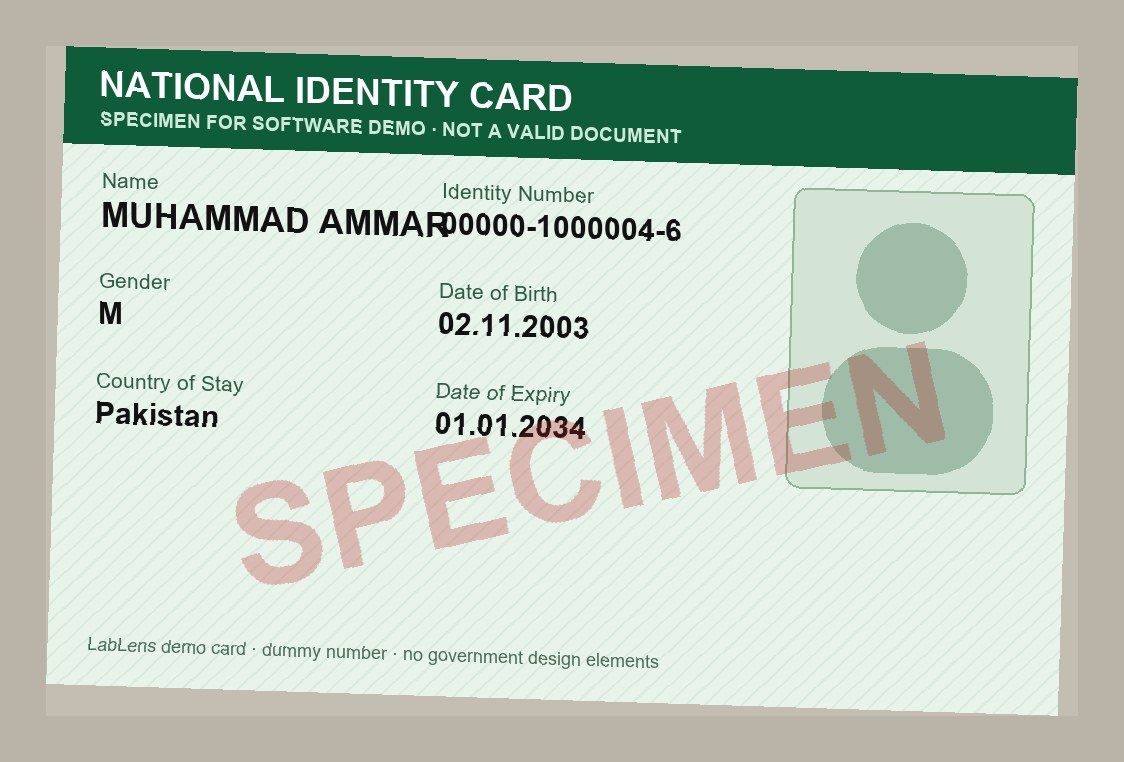
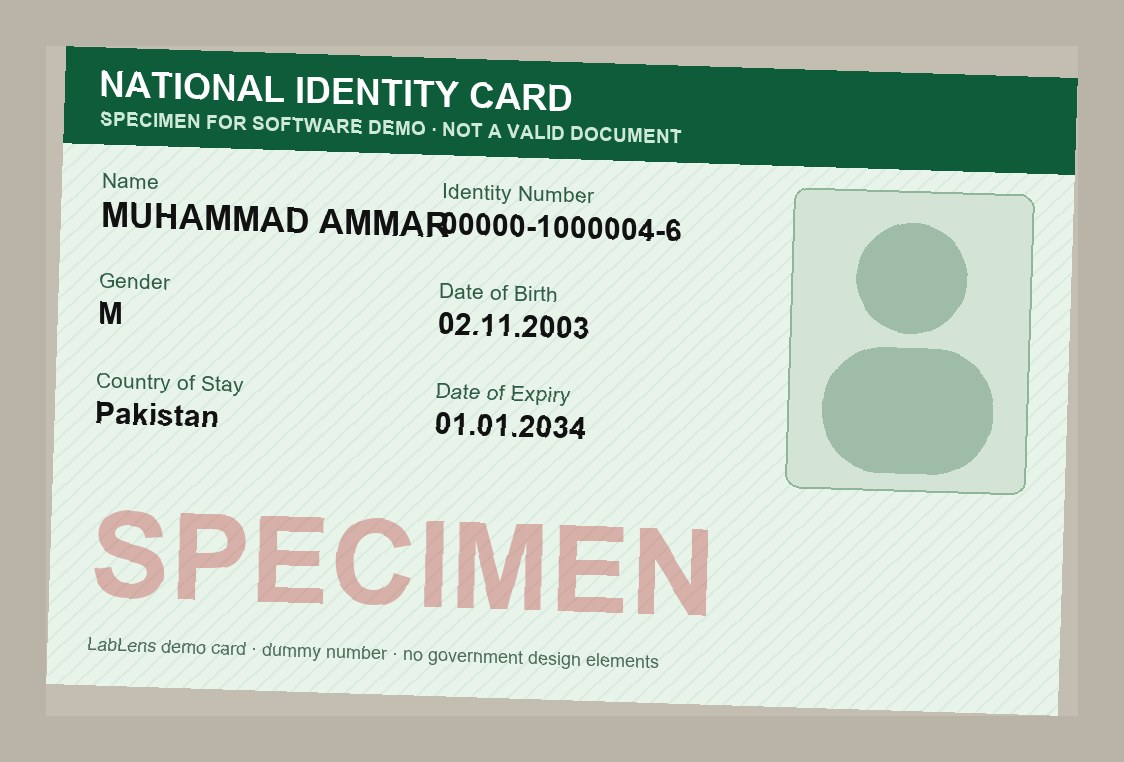
Fixes from the first real Textract runs, plus setup docs
- parser: accept a range whose dash Textract dropped ("13.0 17.0"),
  which left in-range rows of the 2-page PDF as UNKNOWN
- low-confidence warning now under 80% (correct cells came back at
  85-92%, so 90% warned on almost every row); UI uses the same value
- CNIC specimens: watermark moved off the data fields; Textract now
  reads the date of birth (98%)
- docs/SETUP.md: how Amplify (Gen 2 backend, sandbox, Hosting CI/CD,
  secrets) and Textract (APIs, features, queries, IAM) are configured,
  measured timings, us-east-1 pricing, budgets and cleanup

Changed region(s): [[0.0623, 0.4528, 0.8407, 0.815]]

diff --git a/amplify/functions/api/parser.test.ts b/amplify/functions/api/parser.test.ts
@@ -58,6 +58,9 @@ function makeQuery(alias: string, question: string, answer: string, blocks: TBlo
 
 // ---- unit helpers ----
 assert.deepEqual(parseRange('13.0 - 17.0'), { low: 13, high: 17 });
+assert.deepEqual(parseRange('13.0 17.0'), { low: 13, high: 17 }, 'Textract dropped the dash');
+assert.deepEqual(parseRange('70 99'), { low: 70, high: 99 });
+assert.deepEqual(parseRange('17.0 13.0'), { low: null, high: null }, 'falling pair is not a range');
 assert.deepEqual(parseRange('0.5 to 1.2'), { low: 0.5, high: 1.2 });
 assert.deepEqual(parseRange('4,000 – 11,000'), { low: 4000, high: 11000 });
 assert.deepEqual(parseRange('< 200'), { low: null, high: 200 });

diff --git a/amplify/functions/api/parser.ts b/amplify/functions/api/parser.ts
@@ -118,6 +118,11 @@ export function parseRange(raw: string | null | undefined): {
   const between = s.match(new RegExp(`${num}\\s*(?:-|to)\\s*${num}`, 'i'));
   if (between) return { low: Number(between[1]), high: Number(between[2]) };
 
+  // Textract sometimes drops a thin dash: "13.0 - 17.0" comes back as "13.0 17.0".
+  // Two numbers and nothing else, rising, is still a low-high range.
+  const pair = s.match(new RegExp(`^${num}\\s+${num}$`));
+  if (pair && Number(pair[1]) < Number(pair[2])) return { low: Number(pair[1]), high: Number(pair[2]) };
+
   const upper = s.match(
     new RegExp(`^(?:<=?|≤|less than|up\\s*to|upto|below)\\s*${num}`, 'i'),
   );

diff --git a/amplify/functions/api/rules.ts b/amplify/functions/api/rules.ts
@@ -26,7 +26,9 @@ export const ALLOWED_TYPES: Record<string, string> = {
 export const MAX_FILE_BYTES = 10 * 1024 * 1024;
 export const MAX_REPORTS_PER_USER = 50;
 export const MIN_TESTS = 3;
-export const LOW_CONFIDENCE = 90;
+// Textract table-cell confidence is typically 85-95% even when the read is right,
+// so only clearly uncertain reads (under 80%) get a warning.
+export const LOW_CONFIDENCE = 80;
 
 export function extensionOf(fileName: string): string {
   return (fileName.match(/\.([a-z0-9]+)$/i)?.[1] ?? '').toLowerCase();

diff --git a/src/components/ReportDetail.tsx b/src/components/ReportDetail.tsx
@@ -6,7 +6,7 @@ import { PANELS, testInfo, type PanelId } from '../lib/testLibrary';
 import type { Profile, Report, TestResult } from '../types';
 import { FlagBadge, Icon, OrganIcon, RangeBar, Spinner } from './ui';
 
-const LOW_CONFIDENCE = 90;
+const LOW_CONFIDENCE = 80; // same threshold as the API (rules.ts)
 type Row = TestResult & { index: number; panel: PanelId };
 
 export default function ReportDetail({ reportId, onBack, profile }: { reportId: string; onBack: () => void; profile: Profile }) {

diff --git a/samples/generate_demo_people.py b/samples/generate_demo_people.py
@@ -333,10 +333,11 @@ def id_card(person, path):
             row = y + i * 100
         d.text((col, row), label, font=font(21), fill="#2f5d44")
         d.text((col, row + 28), value, font=font(30, True), fill="#111111")
-    # big diagonal SPECIMEN watermark
+    # big SPECIMEN watermark in the empty band under the fields, so it never covers
+    # data Textract has to read (it used to hide the date of birth)
     wm = Image.new("RGBA", (w, h), (0, 0, 0, 0))
-    ImageDraw.Draw(wm).text((150, 330), "SPECIMEN", font=font(140, True), fill=(180, 30, 30, 70))
-    card = Image.alpha_composite(card.convert("RGBA"), wm.rotate(14, center=(w // 2, h // 2))).convert("RGB")
+    ImageDraw.Draw(wm).text((40, 440), "SPECIMEN", font=font(120, True), fill=(180, 30, 30, 80))
+    card = Image.alpha_composite(card.convert("RGBA"), wm).convert("RGB")
     d = ImageDraw.Draw(card)
     d.text((40, h - 52), "LabLens demo card · dummy number · no government design elements", font=font(18), fill="#4b6b57")
     photo = card.rotate(-1.8, expand=True, fillcolor=(196, 190, 178))

diff --git a/docs/SETUP.md b/docs/SETUP.md
@@ -1,0 +1,166 @@
+# How LabLens configures AWS Amplify and Amazon Textract
+
+Everything runs in **us-east-1 (N. Virginia)**. Live app: https://main.d2jc5ol5znqp3n.amplifyapp.com
+(Amplify app `AWS_LabLens`, id `d2jc5ol5znqp3n`, branch `main`).
+
+---
+
+## 0. One-time account setup
+
+| Step | What we did | Why |
+|---|---|---|
+| Account plan | Upgraded the AWS account from the **Free plan to the Paid plan** (credits still apply first) | The Free plan blocks Textract: every call failed with `SubscriptionRequiredException` |
+| Budgets | A **$5 monthly cost budget** and a **$2 alert** in Billing → Budgets | An email before any surprise charge |
+| Deploy user | IAM user `lablens-deployer`, no console access, policy **`AmplifyBackendDeployFullAccess`**, one CLI access key | Never deploy with the root user |
+| CLI profile | `npx ampx configure profile --name lablens` (keys typed into the terminal, never into code or chat) | The sandbox deploys with this profile |
+| CDK bootstrap | Amplify console bootstrap page → **Initialize setup** (once per account and region) | Amplify Gen 2 deploys through AWS CDK, which needs a `CDKToolkit` stack |
+
+---
+
+## 1. AWS Amplify
+
+### 1.1 Backend as code (Amplify Gen 2)
+
+All of the backend lives in two TypeScript files:
+
+**`amplify/functions/api/resource.ts`**: one Lambda function
+
+```ts
+defineFunction({
+  name: 'lablens-api', entry: './handler.ts',
+  timeoutSeconds: 120, memoryMB: 512,                 // Node.js 22
+  environment: { TOKEN_SECRET: secret('TOKEN_SECRET') }, // signing key from SSM, never in Git
+});
+```
+
+**`amplify/backend.ts`**: everything else
+
+- `defineBackend({ api })` registers the function.
+- `backend.createStack('lablens-data')` holds plain AWS CDK resources:
+  - **S3 bucket**: blocks all public access, SSE-S3 encryption, HTTPS only, CORS for
+    `http://localhost:5173` and `https://*.amplifyapp.com` (browser PUT/GET with presigned URLs),
+    a lifecycle rule that deletes anything under `ids/` after 1 day, and a destroy policy.
+  - **DynamoDB `UsersTable`**: partition key `username`, on-demand billing.
+  - **DynamoDB `ReportsTable`**: partition key `username`, sort key `reportId`, on-demand billing.
+- **Least-privilege permissions** for the function:
+  bucket read/put/delete; Users `GetItem`/`PutItem`/`UpdateItem`; Reports `GetItem`/`PutItem`/`Query`/`DeleteItem`;
+  Textract `AnalyzeDocument`, `StartDocumentAnalysis`, `GetDocumentAnalysis`.
+- **Function URL**: `authType: NONE` (our own signed-token check protects every route but sign-in),
+  CORS for `GET POST PUT DELETE` with `authorization` and `content-type` headers.
+- `backend.addOutput({ custom: { apiUrl } })` writes the API address into `amplify_outputs.json`,
+  which the React app reads in `src/api.ts`, so no URL is hard-coded.
+
+We deliberately did **not** use `defineAuth` (Cognito) or `defineData` (AppSync): one function with our own
+token auth is smaller and fully explainable. The trade-off is no MFA or password reset.
+
+### 1.2 Development: the sandbox
+
+```bash
+npx ampx sandbox secret set TOKEN_SECRET --profile lablens   # paste a random 32-byte value
+npx ampx sandbox --once --profile lablens                     # deploy a private copy (about 2 min first time)
+npm run dev                                                   # React app on http://localhost:5173
+```
+
+The sandbox is a personal set of CloudFormation stacks (`amplify-labreportdigitizer-<user>-sandbox-…`).
+
+### 1.3 Production: Amplify Hosting with CI/CD
+
+Console steps (Amplify → **Create new app**):
+
+1. **Choose source code provider**: GitHub. Grant the **Amplify GitHub App** access to `HayyanFaisal/AWS_LabLens`.
+2. **Repository and branch**: `AWS_LabLens`, branch `main`.
+3. **App settings**: framework auto-detected as **Amplify Gen 2**; build command `npm run build`, output `dist`;
+   service role **Create and use a new service role**.
+4. **Review → Save and deploy**.
+5. **Hosting → Secrets → Manage secrets**: add `TOKEN_SECRET` for the branch (a different random value from the sandbox).
+
+What each build runs (`amplify.yml`):
+
+```yaml
+backend:  npm ci  →  npx ampx pipeline-deploy --branch $AWS_BRANCH --app-id $AWS_APP_ID
+frontend: npm run build  →  publish dist/ to the CDN
+```
+
+From then on, **every `git push` to `main` deploys the backend and the website** (production has its own
+Lambda, tables and bucket, separate from the sandbox).
+
+Lesson learned: the first build failed because `npm ci` rejected `package-lock.json`. Locks written by npm 11
+can be rejected by the npm 10 in the build image; regenerate with `npx npm@10 install --package-lock-only`.
+
+---
+
+## 2. Amazon Textract
+
+Textract has **nothing to create**: no instance, no model, no console setup. It is an API that our Lambda calls,
+allowed by the account plan (Paid) and by the three IAM actions above. Textract reads the file **directly from our
+S3 bucket** with the Lambda's permissions, so documents never pass through Lambda memory as uploads.
+
+How we call it (`amplify/functions/api/textract.ts`):
+
+| Document | API | Settings |
+|---|---|---|
+| Lab report image (PNG/JPG/TIFF) | `AnalyzeDocument` (synchronous) | `FeatureTypes: [TABLES, QUERIES]` + 4 queries |
+| Lab report PDF (multi-page) | `StartDocumentAnalysis` → `GetDocumentAnalysis` (asynchronous) | same features; poll every 2 s (up to 100 s), then page through results with `NextToken`, 1000 blocks per page |
+| ID card at sign-up | `AnalyzeDocument` (synchronous) | `FeatureTypes: [QUERIES]` only |
+
+The queries we send:
+
+- Lab report: *What is the patient name? · What is the report date? · What is the sample collection date? · What is the name of the laboratory?*
+- ID card: *What is the name of the card holder? · What is the date of birth? · What is the gender? · What is the identity card number?*
+
+What we do with the response (`parser.ts`, `rules.ts`):
+
+- TABLE and CELL blocks are rebuilt into rows; the header row tells us which column is the test, result, unit and range.
+- Range text (`70 - 99`, `< 200`, `> 40`, `Up to 7.0`) becomes low/high limits; values are flagged LOW / NORMAL / HIGH.
+- Each cell's **Confidence** is kept; values under **80%** get a warning.
+- Each row's **Geometry.BoundingBox** is kept, so the app can draw the row over the original image.
+- A document with no table, fewer than 3 numeric results, or no reference ranges is saved as "Not accepted".
+- ID card answers are normalised (dates, sex); only the **last 4 digits** of the ID number are stored, and the photo is deleted.
+
+### Measured on real Textract (sandbox, 2026-11-18)
+
+| Document | Mode | Textract time | Blocks | Result |
+|---|---|---|---|---|
+| 1-page report image | sync | 1.6–2.1 s | 314 | 6 tests, 6 out of range, patient/lab/date correct |
+| 2-page report PDF | async | about 6.5 s | 629 | 16 tests, 1 out of range |
+| Pharmacy receipt | sync | about 1.1 s | 98 | correctly rejected |
+| CNIC-style specimen card | sync, Queries | about 0.9 s | 66 | name 96%, date of birth 98%, sex 100%, ID 98% |
+
+Fixes made after the first real runs: Textract sometimes drops a thin dash in ranges (`13.0 17.0`), so the parser
+accepts two rising numbers as a range; the warning threshold moved from 90% to 80% because correct cells often
+come back at 85–92%; the ID card watermark was moved off the data fields.
+
+---
+
+## 3. Pricing (us-east-1)
+
+Textract per-page prices, first 1,000,000 pages a month, as reported by the AWS console assistant on 2026-11-18
+(check https://aws.amazon.com/textract/pricing before quoting):
+
+| Feature | Price per page |
+|---|---|
+| Detect Document Text (plain OCR) | $0.0015 |
+| Analyze Document: Tables + Queries | $0.02 |
+| Analyze Document: Forms | $0.05 |
+| Analyze Expense (invoices, receipts) | $0.01 |
+
+What LabLens uses: **Tables + Queries** for every report page, **Queries** for each ID card.
+Example: 100 one-page reports ≈ 100 × $0.02 = **about $2**. New accounts also get a 3-month Textract free tier
+(100 pages a month for the Analyze Document features).
+
+Amplify Hosting is billed for build minutes, storage and data served, with a free tier
+(https://aws.amazon.com/amplify/pricing). Lambda, DynamoDB on-demand and S3 are billed per request and per GB,
+which is close to nothing while the app is idle.
+
+Guard rails: the $5 monthly budget and the $2 alert.
+
+---
+
+## 4. Cleanup after the course
+
+```bash
+npx ampx sandbox delete --profile lablens     # removes the sandbox stacks, tables and bucket
+```
+
+Then in the Amplify console delete the `AWS_LabLens` app (removes hosting and the production backend), delete the
+`lablens-deployer` access key, and confirm in Billing that charges return to zero.
